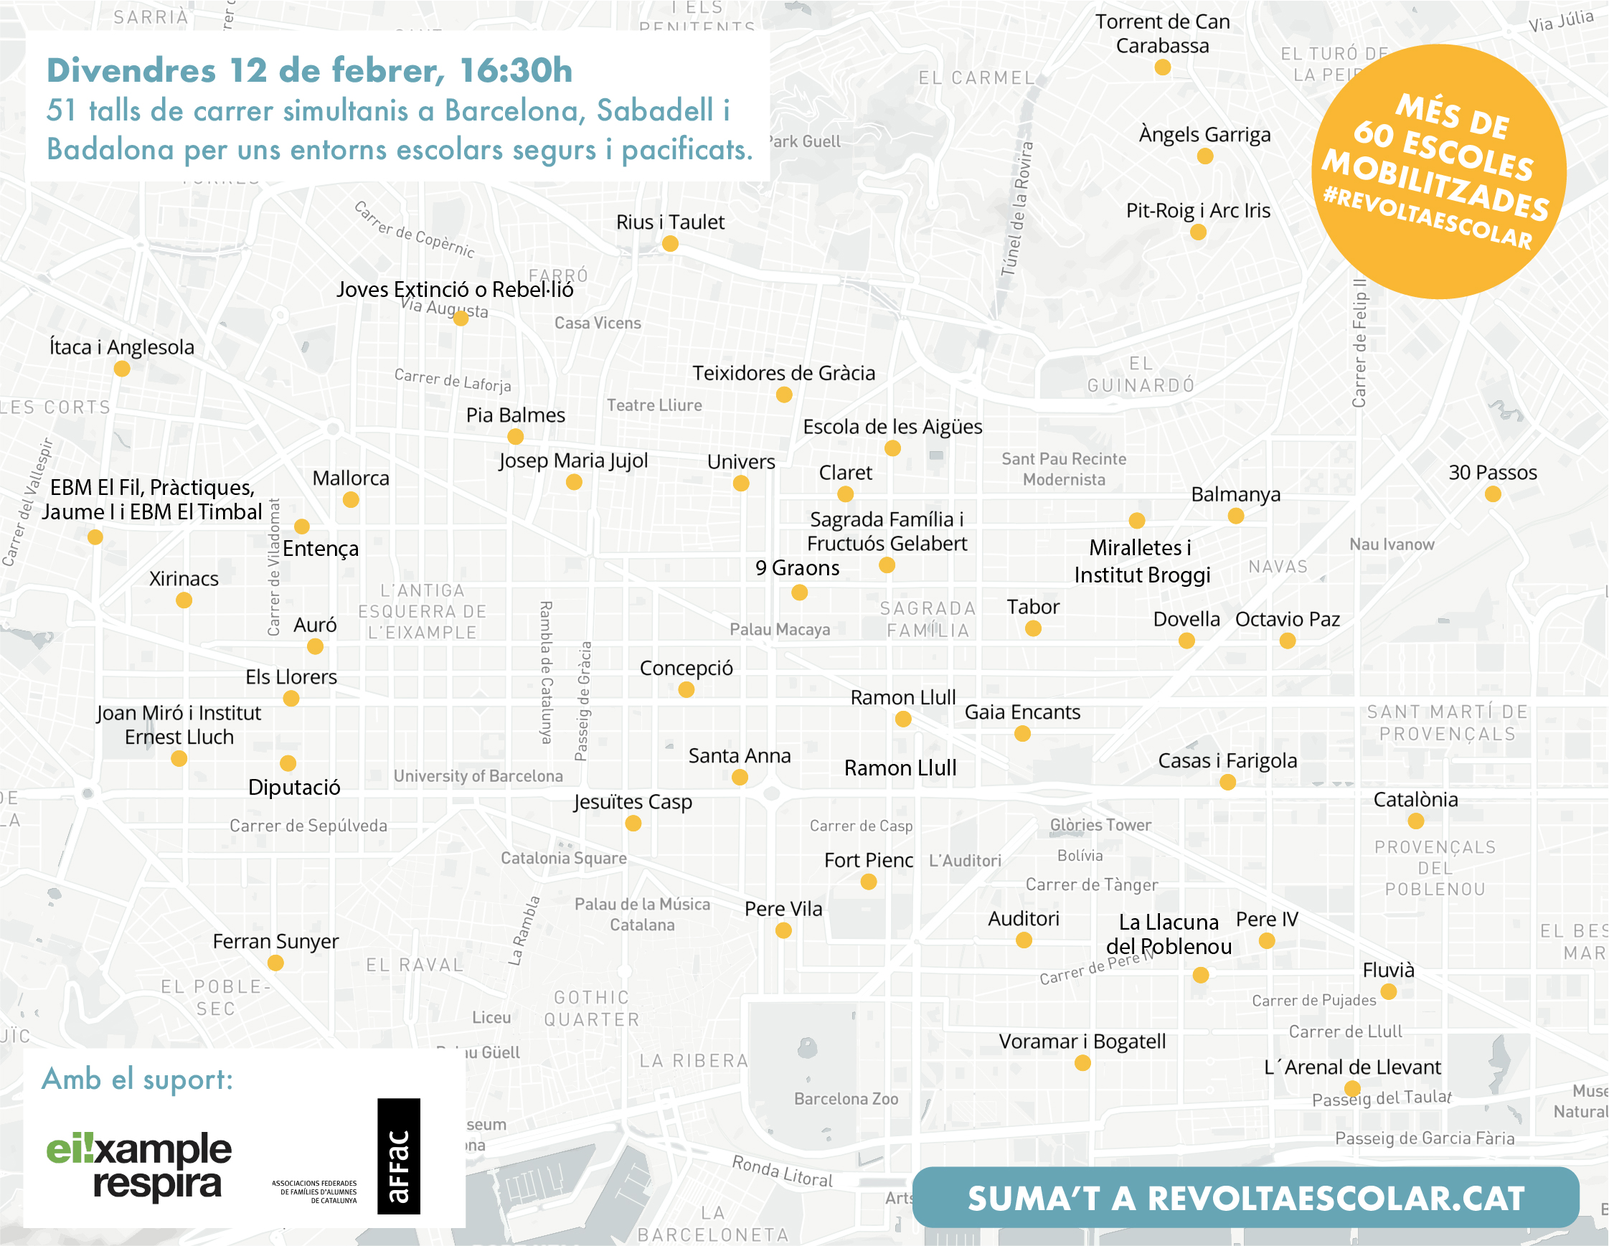
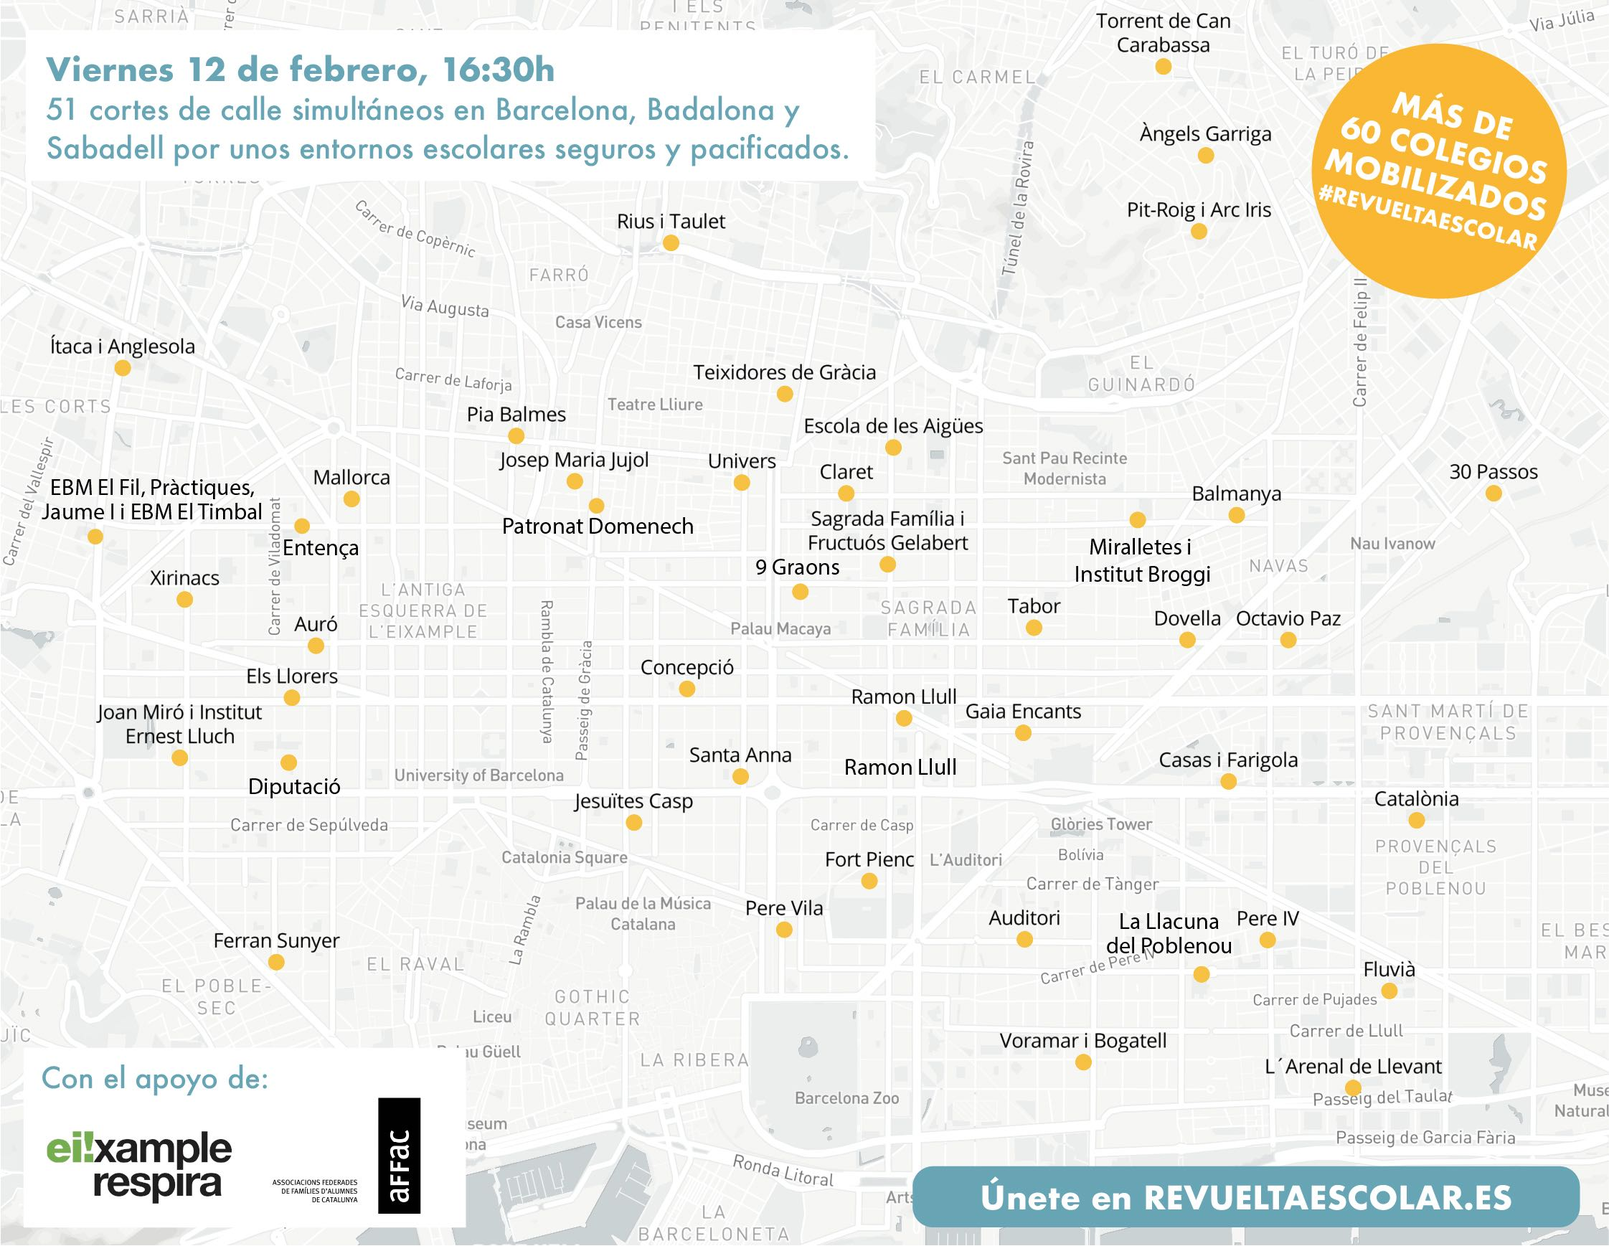
Translated

diff --git a/index.html b/index.html
@@ -1,7 +1,7 @@
 <!DOCTYPE html>
 <html>
 <head>
-  <title>Por unos entornos escolares seguros y pacificados! Únete a la #RevueltaEscolar!</title>
+  <title>For safe and peaceful school environments! Join the #SchoolRebellion!</title>
   <meta name="description" content="Diferentes Asociaciones de Famílias de Alumnos (AFA) en Cataluña, en colaboración con entidades vecinales, estamos realizando cada 15 días cortes de tráfico los viernes a la salida del colegio para reclamar una mayor pacificación y seguridad de los entornos escolares, menos contaminación y menos ruido.">
   <meta name="viewport" content="width=device-width,initial-scale=1">
   <meta http-equiv="content-type" content="text/html;charset=utf-8" />
@@ -23,43 +23,48 @@
 <body class="index">
   <div class="page">
     <div class="inner">
+      <div class="lang">
+        <a href="https://www.schoolrebellion.com">English</a>
+        <a href="https://www.revueltaescolar.es">Español</a>
+        <a href="https://www.revoltaescolar.cat">Català</a>
+      </div>
       <h2>Join the #SchoolRebellion</h2>
-      <h1 class="large">FOR SAFE AND PEACEFUL SCHOOL ENVIRONMENTS!</h1>
+      <h1 class="large" style="max-width: 1000px;">FOR SAFE AND PEACEFUL SCHOOL ENVIRONMENTS!</h1>
       <img src="images/cartells.svg">
       <div class="text">
-        <p>Diferentes Asociaciones de Famílias de Alumnos (AFA) en Cataluña, en colaboración con entidades vecinales, estamos realizando cada 15 días cortes de tráfico los viernes a la salida del colegio para reclamar una mayor pacificación y seguridad de los entornos escolares, menos contaminación y menos ruido.</p>
-        <p>Empezamos en diciembre de 2020, con 20 colegios y 17 cortes de tráfico. En poco tiempo ya hemos crecido hasta ser 63 centros mobilizados. El próximo <b>viernes 12 de febrero a las 16:30</b> realizaremos 51 cortes de calle simultáneos en tres ciudades diferentes: Barcelona, Badalona y Sabadell. Lo que hemos denominado la <b>#RevueltaEscolar</b>.</p>
-        <p>Para que os hagáis una idea, estos son los cortes de calle que habrá en la próxima protesta en Barcelona:</p>
+        <p>Parents and Teachers Associations (PTAs) in Catalonia, in collaboration with neighbourhood organizations, are carrying out roadblocks every 15 days on Fridays when leaving school to demand greater pacification and safety of school environments, less pollution and less noise.</p>
+        <p>We started in December 2020, with 20 schools and 17 traffic cuts. In a short time, we have already grown to 63 mobilized centres. Next Friday, February 12th at 4:30 p.m., we will carry out 51 simultaneous roadblocks in three different cities: Barcelona, Badalona and Sabadell. We have called it the <b>#SchoolRebellion</b>.</p>
+        <p>To give you an idea, these are the roadblocks that will take place at the next protest in Barcelona:</p>
         <img src="/images/mapa-barcelona.jpg">
-        <p>La protesta no para de crecer. Se está extendiendo a más ciudades. Por lo que sería genial si desde vuestra AFA o AMPA también os animárais a participar!</p>
-        <h2>¿Cuando serán las próximas protestas?</h2>
-        <p>Es importante, para tener una mayor repercusión, que vayamos todos a una. Por eso hemos marcado las siguientes fechas: 12 de febrero, 26 de febrero, 12 de marzo, 26 de marzo, etc. Todas en viernes, cada 15 dies, y a la hora de la salida del colegio.</p>
-        <h2>¿Qué deberíamos hacer para sumarnos?</h2>
-        <p>Primero de todo, el AFA o AMPA de vuestro centro, debería aprobar en junta añadirse a la protesta. Una vez aprobado, tendréis que notificar a la delegación del gobierno de vuestra ciudad la fecha, hora y lugar del corte de calle. De esta forma será la policía municipal la que realizará el corte de tráfico, garantizando de esta forma vuestra seguridad.</p>
-        <p>Segundo, deberéis hacer el máximo de difusión del dia, hora y lugar de la protesta. Tanto a las famílias del colegio, como a los vecinos y entidades del barrio. En <a href="">este enlace</a> podéis adaptar y descargaros el cartel que estamos utilizando en el resto de protestas.</p>
+        <p>The protest does not stop growing and is spreading to more cities, so it would be great if your PTA also encouraged you to participate!</p>
+        <h2>When will the next protests be?</h2>
+        <p>It is important that we all go together to make a greater impact. That is why we have marked the following dates: February 12th, February 26th, March 12th, March 26th, etc. Always on Friday, every 14 days, and at the time of school closure.</p>
+        <h2>What should we do to join?</h2>
+        <p>First of all, the PTA of your education centre should approve adding to the protest, in a meeting. Once approved, you will have to notify your city government delegation of the date, time and place of the roadblock. This way, it will be the municipal police that will cut traffic off, thus guaranteeing your safety.</p>
+        <p>Secondly, you must maximize the announcement of the day, time and place of the protest; both to the families of the school, as well as to the neighbours and neighbourhood organizations. In this link, you can adapt and download the poster that we are using in the rest of the protests.</p>
         <div class="menu">
           <div class="button">
-            <a href="poster" style="background: #F28C27">Descárgate el cartel</a>
+            <a href="poster" style="background: #F28C27">Download the poster</a>
           </div>
         </div>
-        <p>Una de las claves del éxito de la <b>#RevueltaEscolar</b>, es el día y la hora en la que se realiza: el viernes, a la salida del colegio. Es importante que cuando los alumnos salgan del centro, la calle ya esté cortada. De esta forma, a las famílias les resultará muy fácil añadirse. Anima mucho, siempre que lo permitan las medidas de prevención del Covid-19, si acompañáis la protesta con alguna actividad festiva: música, juegos, etc.</p>
+        <p>One of the keys to the success of the <b>#SchoolRebellion</b> is the day and time it takes place: Friday, after school. It is important that when the students leave the centre, the street is already closed. In this way, it will be very easy for families to add themselves to the protest. It encourages them if you accompany the protest with some festive activity: music, games, etc, as long as the Covid-19 prevention measures allow it.</p>
 
-        <p>También os recomendamos, unos días antes de la protesta, que os reunáis unas cuantas famílias (en el parque, o en alguna aula del colegio) para preparar carteles para la protesta. Con unos cartones y unos rotuladores se pueden hacer carteles muy chulos. Podéis utilizar mensajes como: "¡Menos coches, más salud!", "Menos ruido", "Menos contaminación", etc. Tener pancartas y carteles funciona muy bien para animar a las famílias a participar, y también así se consigue que las fotos que después van corriendo por las redes y grupos de whatsapp hablen por si solas.</p>
-        <p>En <a href="https://www.dropbox.com/sh/5nrrhjelpm8jzcd/AAC_TeWQ7NxgBFY77eKLomvea?dl=0https://www.dropbox.com/sh/5nrrhjelpm8jzcd/AAC_TeWQ7NxgBFY77eKLomvea?dl=0">este enlace</a> puedes ver algunas fotos de las protestas anteriores.</p>
+        <p>We also recommend, a few days before the protest, that you get together a few families (in the park, or in a school classroom) to prepare posters for the protest. You can make very cool posters with some cardboard and some markers. You can use messages like: "Less cars, more health!", "Less noise!", "Less pollution!", etc. Having banners and posters works very well to encourage families to participate, and in this way the photos that are later running through the networks and WhatsApp groups speak for themselves.</p>
+        <p>In <a href="https://www.dropbox.com/sh/5nrrhjelpm8jzcd/AAC_TeWQ7NxgBFY77eKLomvea?dl=0https://www.dropbox.com/sh/5nrrhjelpm8jzcd/AAC_TeWQ7NxgBFY77eKLomvea?dl=0">this link</a>, you can see some photos of the previous protests</p>
         <img src="/images/protestas.png">
         <div class="menu">
           <div class="button">
-            <a href="https://www.dropbox.com/sh/5nrrhjelpm8jzcd/AAC_TeWQ7NxgBFY77eKLomvea?dl=0" target="_blank" style="background: #F69885">Ver más fotos de las protestas</a>
+            <a href="https://www.dropbox.com/sh/5nrrhjelpm8jzcd/AAC_TeWQ7NxgBFY77eKLomvea?dl=0" target="_blank" style="background: #F69885">See more photos of the protests</a>
           </div>
         </div>
-        <p>Finalmente, es importante que animéis a otros colegios de vuestra ciudad a añadirse a la protesta. Lo más fácil es que créeis un grupo de Whatsapp o Telegram que os permita coordinaros y añadir a todas las AFAs de vuestro municipio que puedan estar interesadas en participar. Compartir la experiencia, anima a otros centros a participar.</p>
-        <p>Si finalmente dáis el paso, también os pediremos <a href="mailto:eixample.respira@gmail.com?subject=Notificaci%C3%B3n%20corte%20de%20calle%20del%20%5BNOMBRE%20DE%20VUESTRA%20AFA%20O%20AMPA%5D&body=Hola%2C%0D%0A%0D%0AOs%20escribimos%20para%20notificaros%20que%20haremos%20el%20siguiente%20corte%20de%20calle%2C%20para%20que%20as%C3%AD%20lo%20pod%C3%A1is%20a%C3%B1adir%20a%20la%20comunicaci%C3%B3n%20unitaria%20de%20la%20protesta%3A%0D%0A%0D%0A-%20municipio%3A%20%5BMUNICIPIO%5D%0D%0A-%20fecha%20del%20corte%20de%20calle%3A%20%5BFECHA%5D%0D%0A-%20ubicaci%C3%B3n%3A%20%5BCALLE%20X%20con%20CALL%20Y%5D%0D%0A-%20hora%20del%20corte%3A%20%5BHH%3AMM%5D%0D%0A-%20participan%3A%20%5BAFA%20o%20AMPA%20X%2C%20AFA%20o%20AMPA%20Y%2C...%5D%0D%0A%0D%0AGracias%2C%0D%0A%0D%0AAFA%20o%20AMPA%20X">que nos aviséis</a>. De esta forma podemos hacer un seguimiento de cómo va creciendo la protesta y os podremos ayudar si tenéis cualquier consulta.</p>
+        <p>Finally, it is important that you encourage other schools in your city to join the protest. The easiest thing is to create a WhatsApp or Telegram group that allows you to coordinate and add to all the PTAs in your region that may be interested in participating. Sharing the experience encourages other centres to participate.</p>
+        <p>If you finally take the step, we will also ask you to <a href="mailto:eixample.respira@gmail.com?subject=Notificaci%C3%B3n%20corte%20de%20calle%20del%20%5BNOMBRE%20DE%20VUESTRA%20AFA%20O%20AMPA%5D&body=Hola%2C%0D%0A%0D%0AOs%20escribimos%20para%20notificaros%20que%20haremos%20el%20siguiente%20corte%20de%20calle%2C%20para%20que%20as%C3%AD%20lo%20pod%C3%A1is%20a%C3%B1adir%20a%20la%20comunicaci%C3%B3n%20unitaria%20de%20la%20protesta%3A%0D%0A%0D%0A-%20municipio%3A%20%5BMUNICIPIO%5D%0D%0A-%20fecha%20del%20corte%20de%20calle%3A%20%5BFECHA%5D%0D%0A-%20ubicaci%C3%B3n%3A%20%5BCALLE%20X%20con%20CALL%20Y%5D%0D%0A-%20hora%20del%20corte%3A%20%5BHH%3AMM%5D%0D%0A-%20participan%3A%20%5BAFA%20o%20AMPA%20X%2C%20AFA%20o%20AMPA%20Y%2C...%5D%0D%0A%0D%0AGracias%2C%0D%0A%0D%0AAFA%20o%20AMPA%20X">notify us</a>. In this way we can keep track of how the protest is growing, and we can help you if you have any questions.</p>
         <div class="menu">
           <div class="button">
-            <a href="mailto:eixample.respira@gmail.com?subject=Notificaci%C3%B3n%20corte%20de%20calle%20del%20%5BNOMBRE%20DE%20VUESTRA%20AFA%20O%20AMPA%5D&body=Hola%2C%0D%0A%0D%0AOs%20escribimos%20para%20notificaros%20que%20haremos%20el%20siguiente%20corte%20de%20calle%2C%20para%20que%20as%C3%AD%20lo%20pod%C3%A1is%20a%C3%B1adir%20a%20la%20comunicaci%C3%B3n%20unitaria%20de%20la%20protesta%3A%0D%0A%0D%0A-%20municipio%3A%20%5BMUNICIPIO%5D%0D%0A-%20fecha%20del%20corte%20de%20calle%3A%20%5BFECHA%5D%0D%0A-%20ubicaci%C3%B3n%3A%20%5BCALLE%20X%20con%20CALL%20Y%5D%0D%0A-%20hora%20del%20corte%3A%20%5BHH%3AMM%5D%0D%0A-%20participan%3A%20%5BAFA%20o%20AMPA%20X%2C%20AFA%20o%20AMPA%20Y%2C...%5D%0D%0A%0D%0AGracias%2C%0D%0A%0D%0AAFA%20o%20AMPA%20X" target="_blank" style="background: #F9B733;">Notificar la protesta</a>
+            <a href="mailto:eixample.respira@gmail.com?subject=Notificaci%C3%B3n%20corte%20de%20calle%20del%20%5BNOMBRE%20DE%20VUESTRA%20AFA%20O%20AMPA%5D&body=Hola%2C%0D%0A%0D%0AOs%20escribimos%20para%20notificaros%20que%20haremos%20el%20siguiente%20corte%20de%20calle%2C%20para%20que%20as%C3%AD%20lo%20pod%C3%A1is%20a%C3%B1adir%20a%20la%20comunicaci%C3%B3n%20unitaria%20de%20la%20protesta%3A%0D%0A%0D%0A-%20municipio%3A%20%5BMUNICIPIO%5D%0D%0A-%20fecha%20del%20corte%20de%20calle%3A%20%5BFECHA%5D%0D%0A-%20ubicaci%C3%B3n%3A%20%5BCALLE%20X%20con%20CALL%20Y%5D%0D%0A-%20hora%20del%20corte%3A%20%5BHH%3AMM%5D%0D%0A-%20participan%3A%20%5BAFA%20o%20AMPA%20X%2C%20AFA%20o%20AMPA%20Y%2C...%5D%0D%0A%0D%0AGracias%2C%0D%0A%0D%0AAFA%20o%20AMPA%20X" target="_blank" style="background: #F9B733;">Notify the protest</a>
           </div>
         </div>
-        <p>Si tienes cualquier consulta o pregunta, no dudeis en contactarnos en <a href="mailto:eixample.respira@gmail.com">eixample.respira@gmail.com</a> o en el teléfono <a href="tel:620426435">620426435</a>.</p>
+        <p>If you have any questions or queries, do not hesitate to contact us at <a href="mailto:eixample.respira@gmail.com">eixample.respira@gmail.com</a> or by phone at <a href="tel:+34620426435">+34 620 426 435</a>.</p>
       </div>
     </div>
   </div>

diff --git a/poster.html b/poster.html
@@ -1,60 +1,80 @@
 <!DOCTYPE html>
 <html>
 <head>
-  <title>Cartel de la #RevueltaEscolar</title>
+  <title>Poster from  #RevueltaEscolar</title>
   <meta name="description" content="Rellena los campos y descárgate la imagen del cartel.">
   <meta name="viewport" content="width=device-width,initial-scale=1">
   <meta http-equiv="content-type" content="text/html;charset=utf-8" />
   <link rel="preconnect" href="https://fonts.gstatic.com">
   <link href="https://fonts.googleapis.com/css2?family=Oswald:wght@400;700&display=swap" rel="stylesheet">
   <link href="https://fonts.googleapis.com/css2?family=Open+Sans:wght@400;600&display=swap" rel="stylesheet">
-  <link href="/application.css?v=7" media="all" rel="stylesheet" />
+  <link href="/application.css?v=8" media="all" rel="stylesheet" />
   <link href="/tool.css?v=7" media="all" rel="stylesheet" />
   <script src="https://cdnjs.cloudflare.com/ajax/libs/jquery/3.5.0/jquery.min.js" integrity="sha256-xNzN2a4ltkB44Mc/Jz3pT4iU1cmeR0FkXs4pru/JxaQ=" crossorigin="anonymous"></script>
   <script src="https://cdnjs.cloudflare.com/ajax/libs/jquery-csv/0.71/jquery.csv-0.71.min.js"></script>
   <script src="/js/html2canvas.min.js"></script>
   <script src="/js/canvas2image.js"></script>
   <script src="/js/sticky-kit.min.js"></script>
-  <script src="/application.js?v=7"></script>
+  <script src="/application.js?v=8"></script>
 </head>
 <body class="tool">
   <div class="layout">
     <div class="setup">
-      <a href="/" class="back">⬅ Volver</a>
-      <h1>DESCÁRGATE EL CARTEL:</h1>
-      <p>Esta herramienta está en fase de pruebas. Rellena los campos y descárgate la imagen. Si tienes algún problema, por favor, contáctanos por <a href="mailto:eixample.respira@gmail.com">correo</a>.</p>
+      <a href="/" class="back">⬅ Back</a>
+      <h1>DOWNLOAD THE POSTER:</h1>
+      <p>This tool is in beta. Fill in the fields and download the image. If you end up with any issue, please reach us at <a href="mailto:eixample.respira@gmail.com">eixample.respira@gmail.com</a>.</p>
       <div class="row">
-        <label>Acción reivindicativa:</label>
-        <input type="text" data-target=".poster .subtitle" placeholder="cortamos la calle Perú">
+        <label>Subtitle:</label>
+        <input type="text" data-target=".poster .subtitle" placeholder="we cut Main Street">
       </div>
       <div class="row">
-        <label>Dia:</label>
+        <label>Date:</label>
         <div class="shopify-select">
           <select data-target=".poster .date">
-            <option>Viernes 12 de febrero</option>
-            <option>Viernes 26 de febrero</option>
-            <option>Viernes 12 de marzo</option>
-            <option>Viernes 26 de marzo</option>
+            <option>Friday, February 12th</option>
+            <option>Friday, February 26th</option>
+            <option>Friday, March 12th</option>
+            <option>Friday, March 26th</option>
           </select>
           <svg class="shopify-select-icon" viewBox="0 0 24 24"><path d="M21 5.176l-9.086 9.353L3 5.176.686 7.647 12 19.382 23.314 7.647 21 5.176z"></path></svg>
         </div>
       </div>
       <div class="row">
-        <label>Hora:</label>
+        <label>Time:</label>
         <div class="shopify-select">
           <select data-target=".poster .time">
+            <option>12.00</option>
+            <option>12.15</option>
+            <option>12.30</option>
+            <option>12.45</option>
+            <option>13.00</option>
+            <option>13.15</option>
+            <option>13.30</option>
+            <option>13.45</option>
+            <option>14.00</option>
+            <option>14.15</option>
+            <option>14.30</option>
+            <option>14.45</option>
+            <option>15.00</option>
+            <option>15.15</option>
+            <option>15.30</option>
+            <option>15.45</option>
             <option>16.00</option>
             <option>16.15</option>
             <option selected>16.30</option>
             <option>16.45</option>
             <option>17.00</option>
+            <option>17.15</option>
+            <option>17.30</option>
+            <option>17.45</option>
+            <option>18.00</option>
           </select>
           <svg class="shopify-select-icon" viewBox="0 0 24 24"><path d="M21 5.176l-9.086 9.353L3 5.176.686 7.647 12 19.382 23.314 7.647 21 5.176z"></path></svg>
         </div>
       </div>
       <div class="row">
-        <label>Localitzación:</label>
-        <input type="text" data-target=".poster .location" maxlength="38" placeholder="Perú entre Diputación y Mayor">
+        <label>Location:</label>
+        <input type="text" data-target=".poster .location" maxlength="38" placeholder="Main Street between 3rd and 4rth">
       </div>
       <div class="row">
         <label>Duración:</label>
@@ -90,11 +110,11 @@
       <div class="container">
         <div class="poster">
           <img class="background" src="/images/base.png">
-          <div class="text subtitle">cortamos la calle Perú</div>
+          <div class="text subtitle">we cut Main Street</div>
           <div class="text info">
             <b><span class="date">Viernes 12 de febrero</span></b><br>
             <b><span class="time">16.30</span> h</b><br>
-            <span class="location">Perú entre Diputación y Mayor</span><br>
+            <span class="location">Main Street between 3rd and 4rth</span><br>
             Duración: <span class="duration">30 minutos</span>
           </div>
           <div class="logos">
@@ -109,6 +129,9 @@
               <div class="images">
               </div>
             </div>
+          </div>
+          <div class="url">
+            <div class="text">Más información en: <u>www.revueltaescolar.es</u></div>
           </div>
         </div>
       </div>  

diff --git a/tool.css b/tool.css
@@ -28,7 +28,7 @@ body.tool {
 body.downloading .container{
   transform: scale(1);
   width: 1685px;
-  height: 2382px;
+  height: 2450px;
 }
 body.downloading .layout {
   display: block;
@@ -42,7 +42,7 @@ body.downloading .setup {
 }
 body.downloading .poster img {
   width: 1685px;
-  height: 2382px;
+  height: 2383px;
 }
 body.downloading {
   opacity: 0;
@@ -52,11 +52,11 @@ body.downloading {
   position: relative;
   background: white;
   width: 1685px;
-  height: 2382px;
+  height: 2450px;
 }
 .poster img {
-  height: 100%;
-  width: 100%;
+  width: 1685px;
+  height: 2383px;
   display: block;
 }
 .poster .subtitle {
@@ -91,8 +91,9 @@ body.downloading {
   top: 2040px;
   left: 74px;
   right: 74px;
-  bottom: 45px;
-  border-top: 2px solid #231F20;
+  bottom: 120px;
+  border-top: 2px solid #67A5B5;
+  padding-top: 20px;
   text-align: left;
   overflow: hidden;
   display: flex;
@@ -100,7 +101,6 @@ body.downloading {
   flex-wrap: nowrap;
 }
 .poster .logos .section{
-  padding-top: 30px;
   width: 100%;
 }
 .poster .logos .section.summons {
@@ -112,7 +112,6 @@ body.downloading {
   font-size: 46px;
   color: #67A5B5;
   text-transform: none;
-  color: #231F20;
 }
 .poster .logos .section .images{
   display: flex;
@@ -133,7 +132,27 @@ body.downloading {
 .poster .support-affac{
   order: 2;
 }
-
+.poster .url {
+  position: absolute;
+  top: 2350px;
+  left: 74px;
+  right: 74px;
+  bottom: 20px;
+  padding-top: 0px;
+  text-align: left;
+  overflow: hidden;
+}
+.poster .url .text{
+  font-family: 'Ursula';
+  font-size: 46px;
+  color: #67A5B5;
+  text-transform: none;
+  text-align: right;
+}
+.poster .url .text u{
+  text-decoration: none;
+  border-bottom: 2px solid;
+}
 .setup {
   padding: 20px;
   width: 100%;

diff --git a/application.css b/application.css
@@ -48,12 +48,19 @@ body {
   text-align: center;
   margin: 0 auto;
 }
-.banner .lang {
-  /*float: right;*/
+.lang {
+  text-align: center;
+  margin: 20px 0;
 }
-.banner .lang a {
-  font-size: 20px;
-  padding: 0 5px;
+.lang a {
+  font: bold 24px/1.2 'oswald';
+  padding: 0 10px;
+  color: #231F20;
+  text-transform: uppercase;
+  text-decoration: none;
+}
+.lang a:hover {
+  text-decoration: underline;
 }
 .page {
   background: white;
@@ -65,7 +72,7 @@ body {
   margin: 0 auto;
 }
 h2 {
-  margin: 20px auto 10px;
+  margin: auto 0px;
   font: bold 30px/1.2 'oswald';
   text-align: center;
   text-decoration: underline;

diff --git a/application.js b/application.js
@@ -52,7 +52,7 @@ $(document).ready(function() {
 
       var scale = window.is_touch_device && $(window).width() <= 500 ? 0.5 : 1;
       html2canvas(document.querySelector(".poster"), {scale: scale}).then(canvas => {
-        Canvas2Image.saveAsPNG(canvas, 2 * 1685, 2 * 2382);
+        Canvas2Image.saveAsPNG(canvas, 2 * 1685, 2 * 2450);
         $('body').removeClass('downloading');
       });
     });
